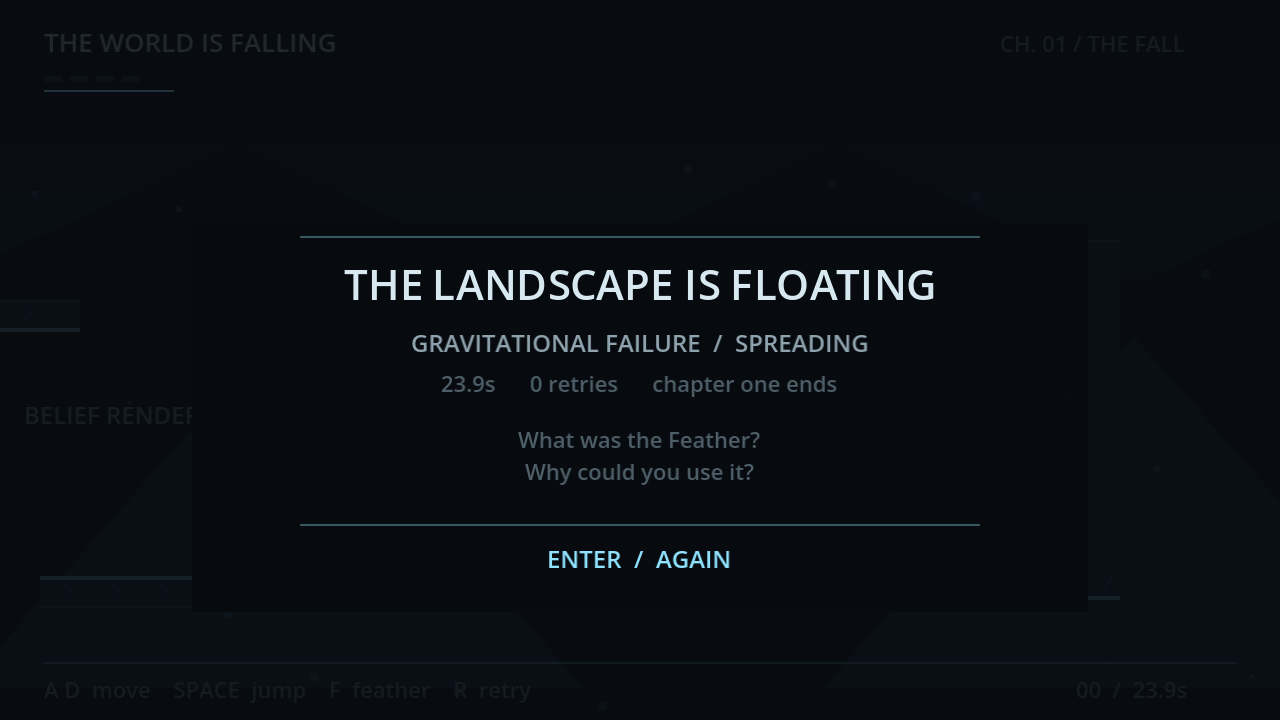
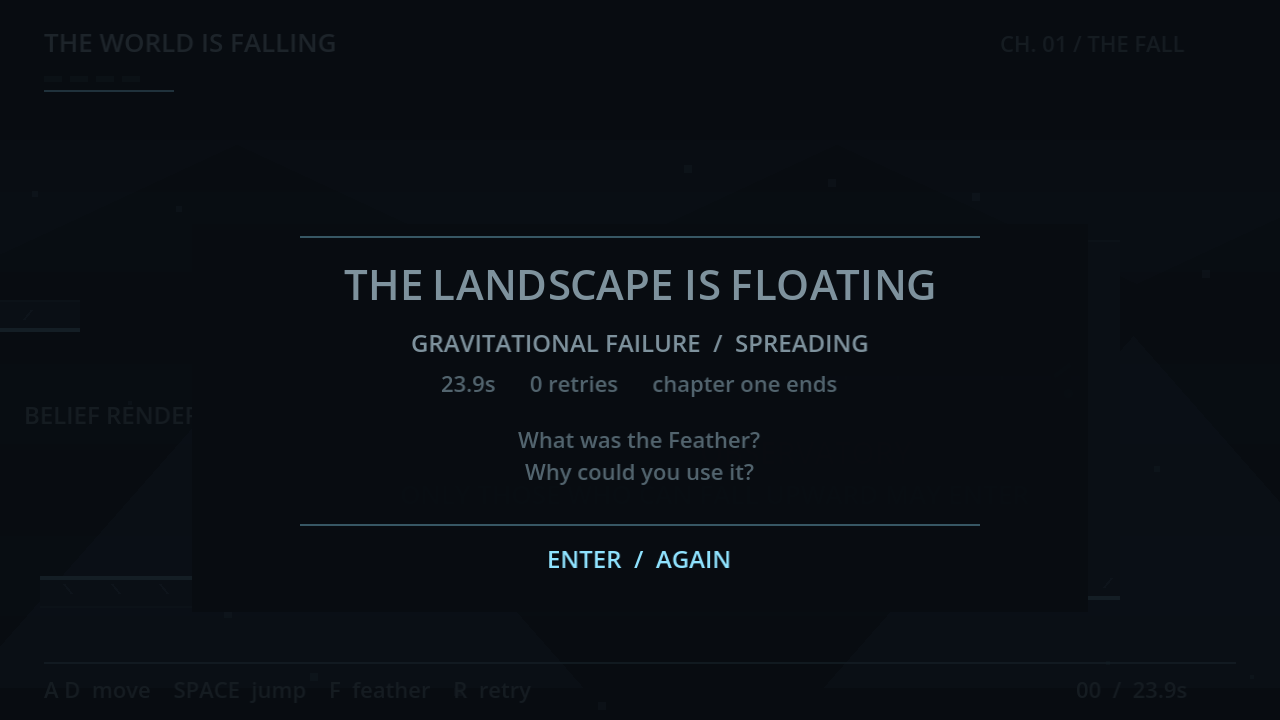
Make the palette the theme: light is the lie, dark is the truth
Upright, the facility is pale institutional daylight. Inverted, it is
the near-black place the Feather reveals. Gravity chooses the scheme,
so colour can never disagree with which way up the player is - the
same reason the trail already encodes orientation.

This is the last unbuilt piece of the INVERSION brief, and it is the
piece that makes the rest mean something. Captures 37 and 38 are the
same spot one tick apart: standing on apparent nothing in daylight,
then the world goes black and the floor that was always underfoot
renders as a cyan lattice.

Two const dictionaries, LIGHT and DARK, with sixteen keys each, and
pal() returns one based on gravity_sign. Every draw site in session.gd
and hud.gd now reads through it; no colour literal survives outside
the tables. The HUD follows the world rather than carrying its own
scheme, which means the completion card renders dark - entering the
observatory requires being inverted.

Two checks, both watched failing first (has_pal: false): every one of
the sixteen keys must differ between schemes, and the direction must
be right - upright void luminance 0.92, inverted 0.045.

51 mechanics + 9 keyboard, 0 failures. tuning.gd still byte-identical;
the 18x28 collider untouched.

All evidence recaptured, since the palette invalidated every existing
screenshot. CHANGE-BRIEF.md gains Revision 3 with four new predictions
(P10-P13) covering whether the Betrayal reads as cheap, whether light
[…]

Changed region(s): [[0.25, 0.3667, 0.75, 0.4278]]

diff --git a/CHANGE-BRIEF.md b/CHANGE-BRIEF.md
@@ -300,3 +300,86 @@ The route fixture's tick budget rose from 900 to 2400 because the level is
 roughly three times longer; the observed run is **1130 ticks with 0 deaths**, and
 that figure is reported in the check so the margin stays visible. No assertion
 was relaxed and no expected value was changed to obtain a pass.
+
+---
+
+## Revision 3 — 2026-09-23, night: INVERSION
+
+The chapter had a mechanic (gravity reversal) but not yet a *theme*. This
+revision supplies one, and it is a single law rather than a bag of tricks:
+
+> **The world renders what you believe, not what is there.**
+
+Everything below follows from it. Upright vision draws phantom geometry and
+withholds hidden geometry; inverted vision does the exact reverse. Collision is
+never consulted by either, which is what keeps this a deduction rather than a
+gotcha — the player can always check by flipping, and the check is free apart
+from the charge it costs.
+
+### What this added
+
+| Element | Behaviour |
+|---|---|
+| **Hidden geometry** | Built as a normal collider, simply not drawn. Rendered as a cyan lattice while inverted. |
+| **Phantom geometry** | Drawn exactly like real ground, never built as a collider at all. Absent while inverted. |
+| **The Void Gap** (x 2800–3000) | Apparent chasm; a hidden floor catches a player who keeps walking. |
+| **The Betrayal** (x 3140–3360) | Visually identical gap with nothing in it. The lesson from the Void Gap is the wrong lesson. |
+| **The Phantom** (x 3540–3670) | A drawn platform that holds nothing. |
+| **Light / dark palette** | Upright the facility is pale daylight; inverted it is near-black. Gravity chooses, so colour can never disagree with orientation. |
+
+The observatory moved right to make room; level width 3120 → 3980. A third
+Feather at x=3060 funds the corridor's three mandatory reversals, and the route
+now finishes with **0 charges spare** — the economy is exactly tight.
+
+### Why this is not a gotcha
+
+The Betrayal kills a player using the rule the previous screen taught them.
+That is deliberate, and three things keep it fair: a sign over the gap reads
+`IT IS NOT THE SAME GAP`; flipping reveals the truth before committing; and the
+ceiling above the gap is visible from the approach, so the alternative route is
+never hidden. The punishment is for assuming, not for failing to read minds.
+**Whether that distinction survives contact with a real player is exactly what
+the playtest has to answer** — see P10.
+
+### New predictions
+
+**P10 — The Betrayal will read as cheap rather than clever.** *Prediction:* the
+first death there will feel unfair, and the sign will turn out to be too easy to
+run past at full speed. *Check:* human playtest. If confirmed, the fix is to
+slow the approach or make the sign impossible to miss — **not** to put a floor
+in the gap, which would destroy the lesson.
+
+**P11 — Light mode will hurt readability.** The starter and the whole chapter
+were designed against a near-black background. *Prediction:* the parallax
+strata and fog bands will wash out at low contrast, and something that mattered
+will become hard to see. *Check:* the recaptured evidence and the playtest.
+
+**P12 — Flipping purely to inspect will feel wasteful.** A charge spent checking
+is a charge not spent travelling. *Prediction:* players will avoid checking
+precisely when checking matters most. *Check:* human playtest; if confirmed,
+consider a free inspection that does not move the player.
+
+**P13 — The two worlds will not read as one place.** *Prediction:* the palette
+flip will feel like a different game rather than the same room seen truthfully.
+*Check:* compare captures 30 and 31, which frame the same geometry in both
+schemes.
+
+### What still did not change
+
+`tuning.gd` is byte-identical. The 18x28 collider is untouched. Move, jump,
+retry, pause, confirm, menu keep the starter's bindings; `F` remains the single
+added key. No collision check was removed — hidden geometry *adds* colliders and
+phantom geometry adds none.
+
+### Automated coverage after INVERSION
+
+**51 mechanics checks / 0 failures** and **9 keyboard checks / 0 failures**, on
+Godot 4.7.2.stable. All 25 starter checks and all 43 pre-INVERSION checks are
+retained unmodified. The eight new checks were each written and **watched
+failing** before the implementing code existed; the RED run reported
+`hidden_entries: 0, has_rendered_slabs: false` and `has_pal: false`.
+
+Two fixture updates, neither of them a weakening: the route's jump at x=2780 was
+removed so it *walks* the Void Gap rather than jumping the question, and
+`finish-unreachable-without-feather` moved from x=2950 to x=3800 because its old
+coordinate now sits on the hidden floor. Both assertions are unchanged.
